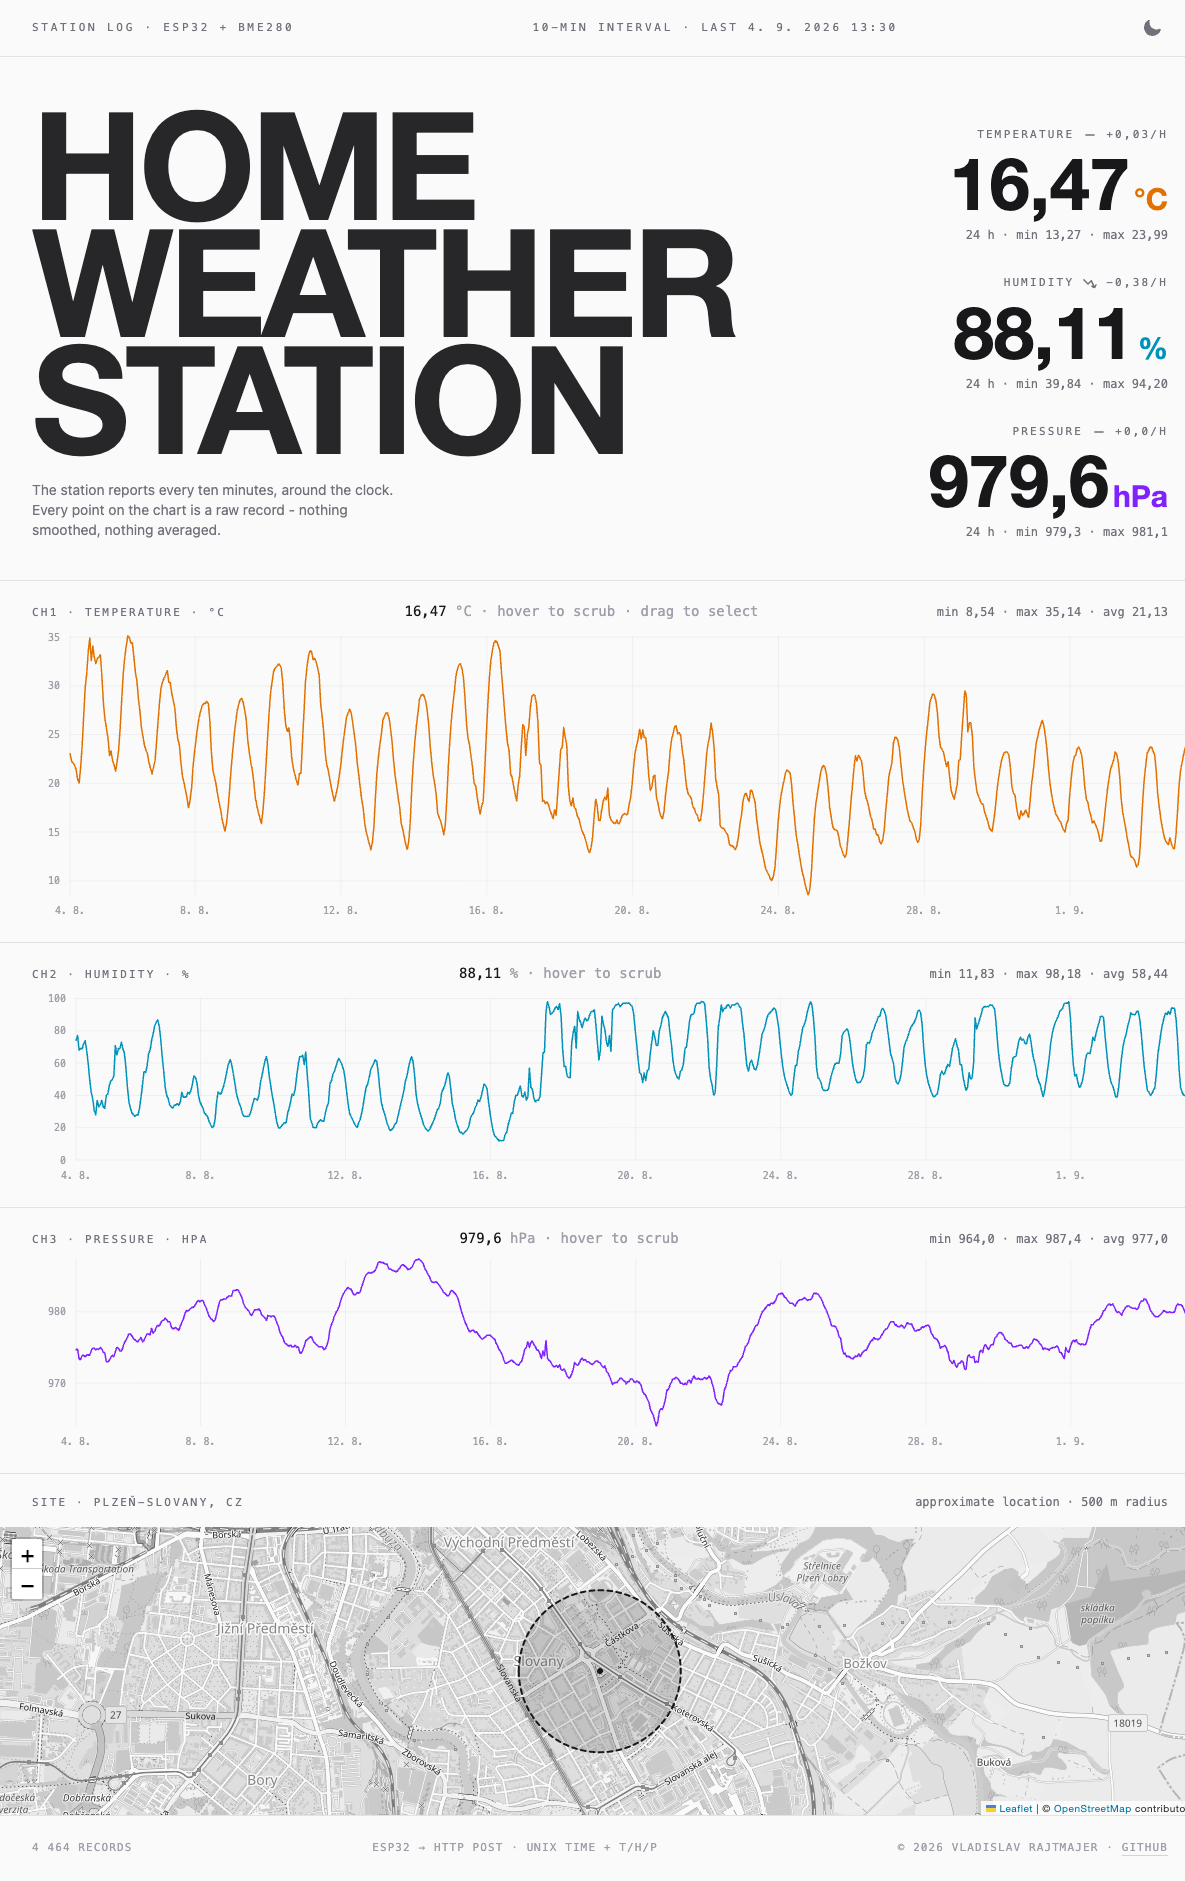
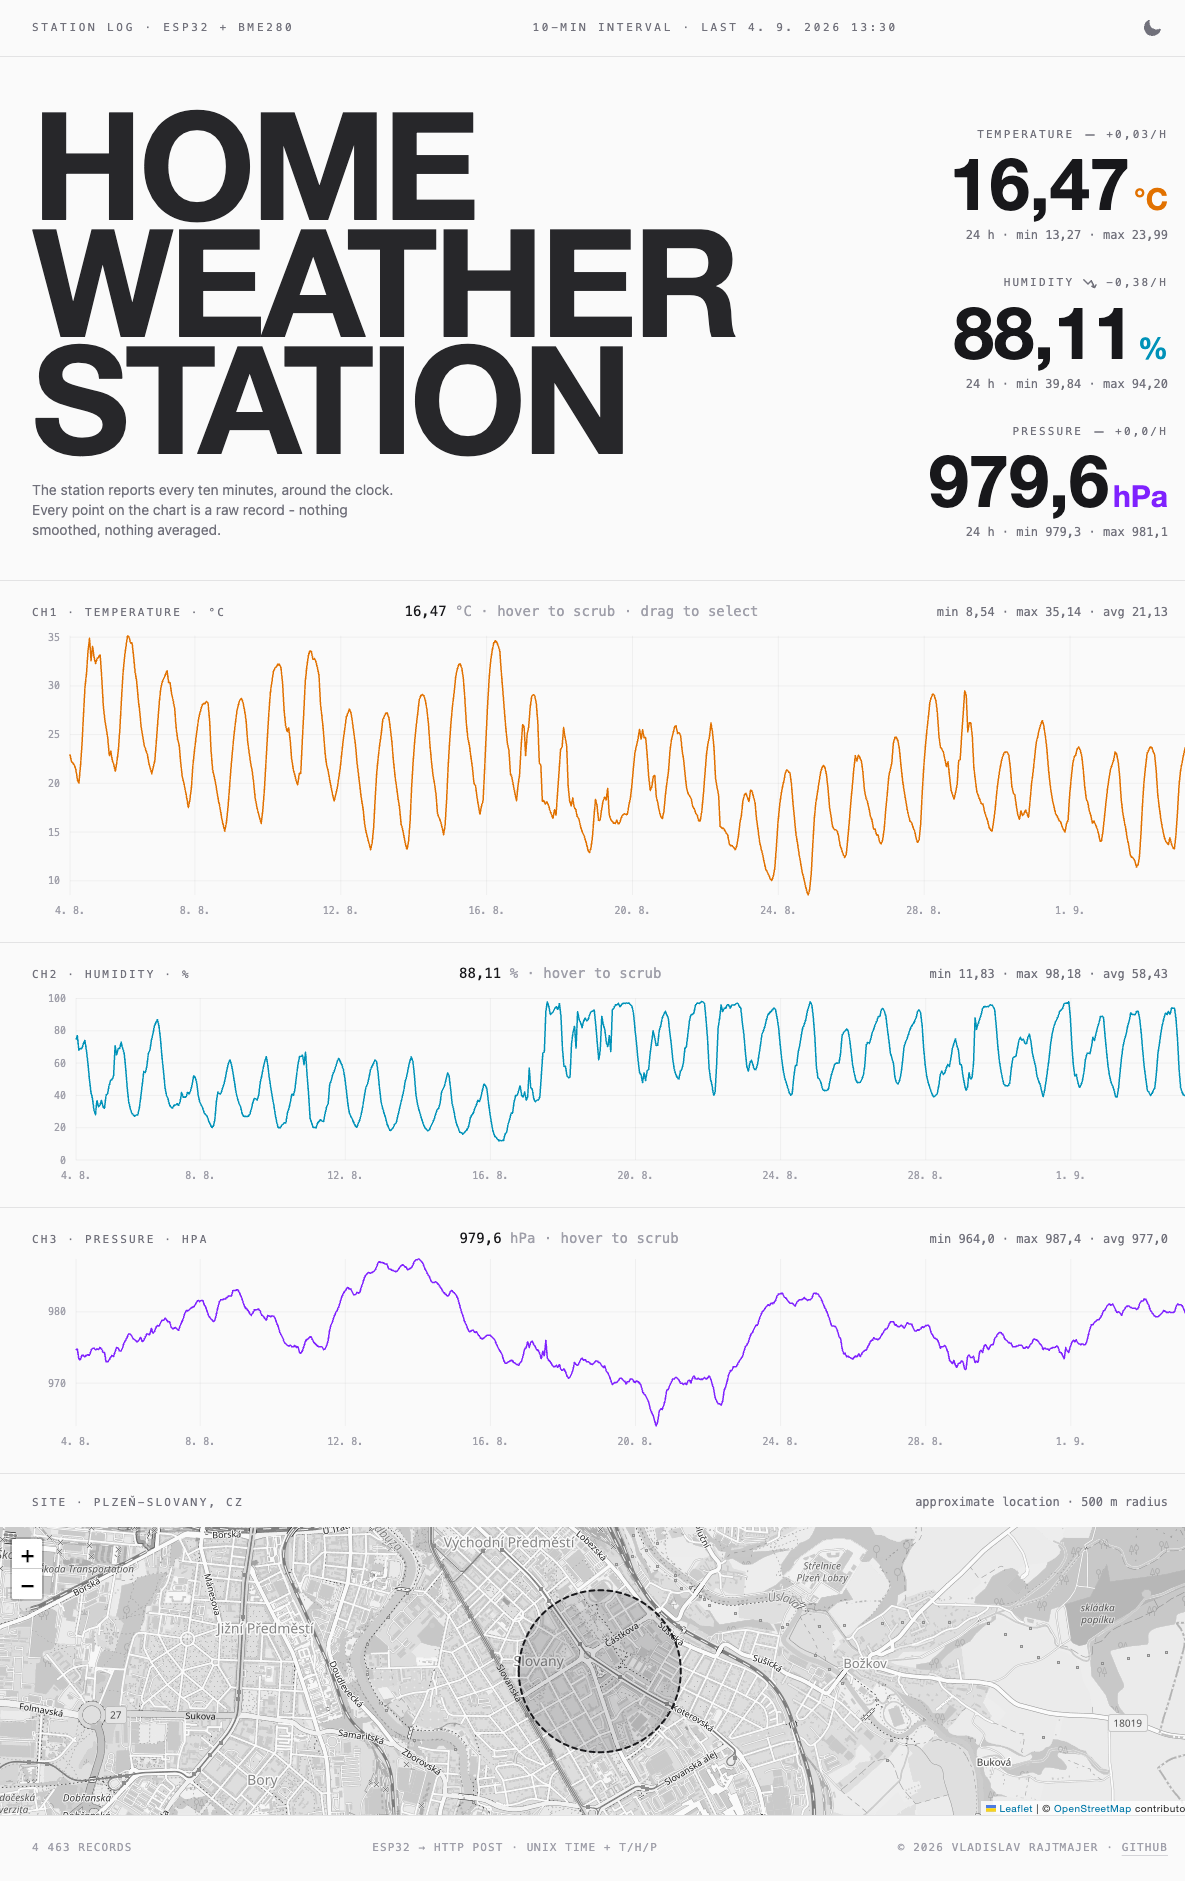
refactor(map): draw the site as an area with no centre marker
The map carried a circle for the reporting area and a filled dot at its
centre. The dot undoes the circle: a radius reads as "somewhere in here"
until something marks the middle, and then it reads as a ring around a known
point. Only the circle is left, and the comments now describe what the code
does.

Changed region(s): [[0.0624, 0.3392, 0.0937, 0.4009], [0.0937, 0.555, 0.1249, 0.5859]]

diff --git a/resources/js/station-map.js b/resources/js/station-map.js
@@ -14,8 +14,11 @@ const INK = {
 const isDark = () => document.documentElement.classList.contains('dark');
 
 /**
- * Render the station's approximate location: a circle rather than a pin,
- * since the published coordinates are deliberately rounded.
+ * Render the area the station reports from, as a circle and nothing else.
+ *
+ * There is deliberately no marker at the centre. A dot on the exact
+ * coordinates would defeat the circle: the radius stops meaning "somewhere in
+ * here" and starts meaning "here, and here is the middle of the ring".
  */
 function createStationMap(el) {
     const lat = Number.parseFloat(el.dataset.lat);
@@ -52,19 +55,10 @@ function createStationMap(el) {
         dashArray: '5 4',
     }).addTo(map);
 
-    const centre = L.circleMarker([lat, lng], {
-        radius: 3,
-        color: ink(),
-        weight: 0,
-        fillColor: ink(),
-        fillOpacity: 1,
-    }).addTo(map);
-
     map.fitBounds(area.getBounds(), { padding: [24, 24] });
 
     const repaint = () => {
         area.setStyle({ color: ink(), fillColor: ink() });
-        centre.setStyle({ color: ink(), fillColor: ink() });
     };
 
     const themeWatcher = new MutationObserver(repaint);

diff --git a/resources/views/components/⚡dashboard.blade.php b/resources/views/components/⚡dashboard.blade.php
@@ -16,7 +16,7 @@ new #[Title('Weather Station')] class extends Component
 
     private const float LONGITUDE = 13.400984;
 
-    /** The map shows this radius around the centre, never an exact pin. */
+    /** The map draws this radius as a circle, with nothing marking its centre. */
     private const int LOCATION_RADIUS_METRES = 500;
 
     private const int DAYS = 31;
